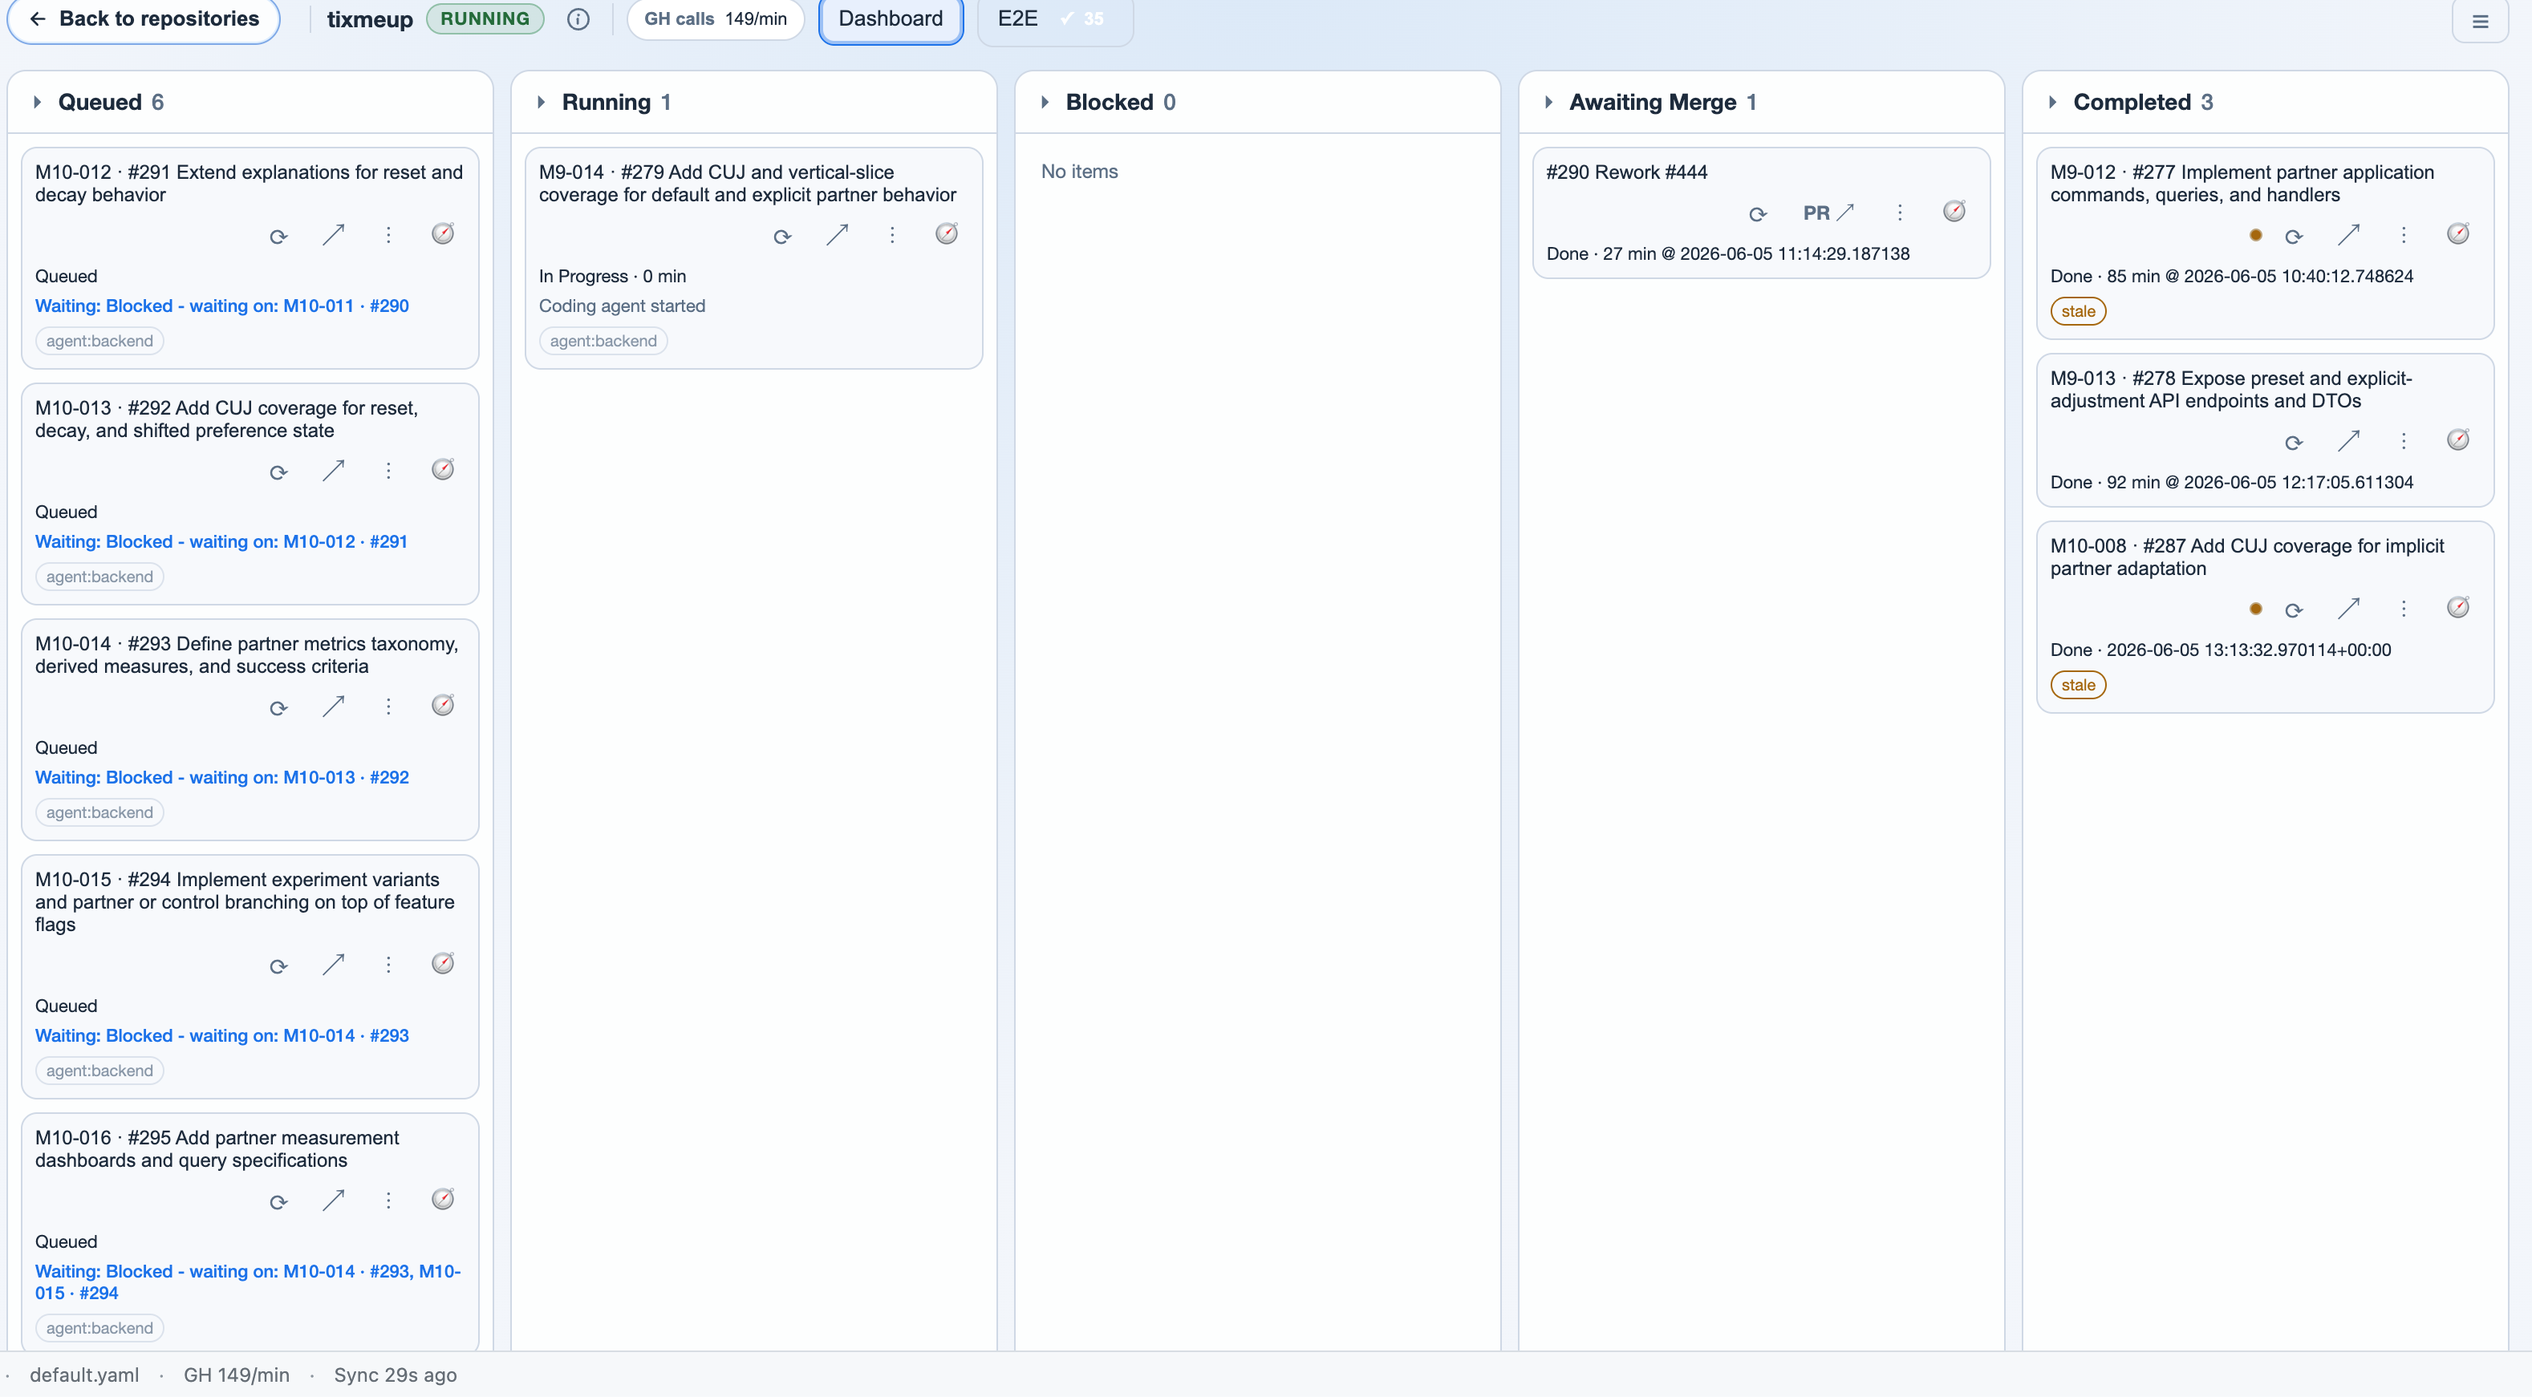
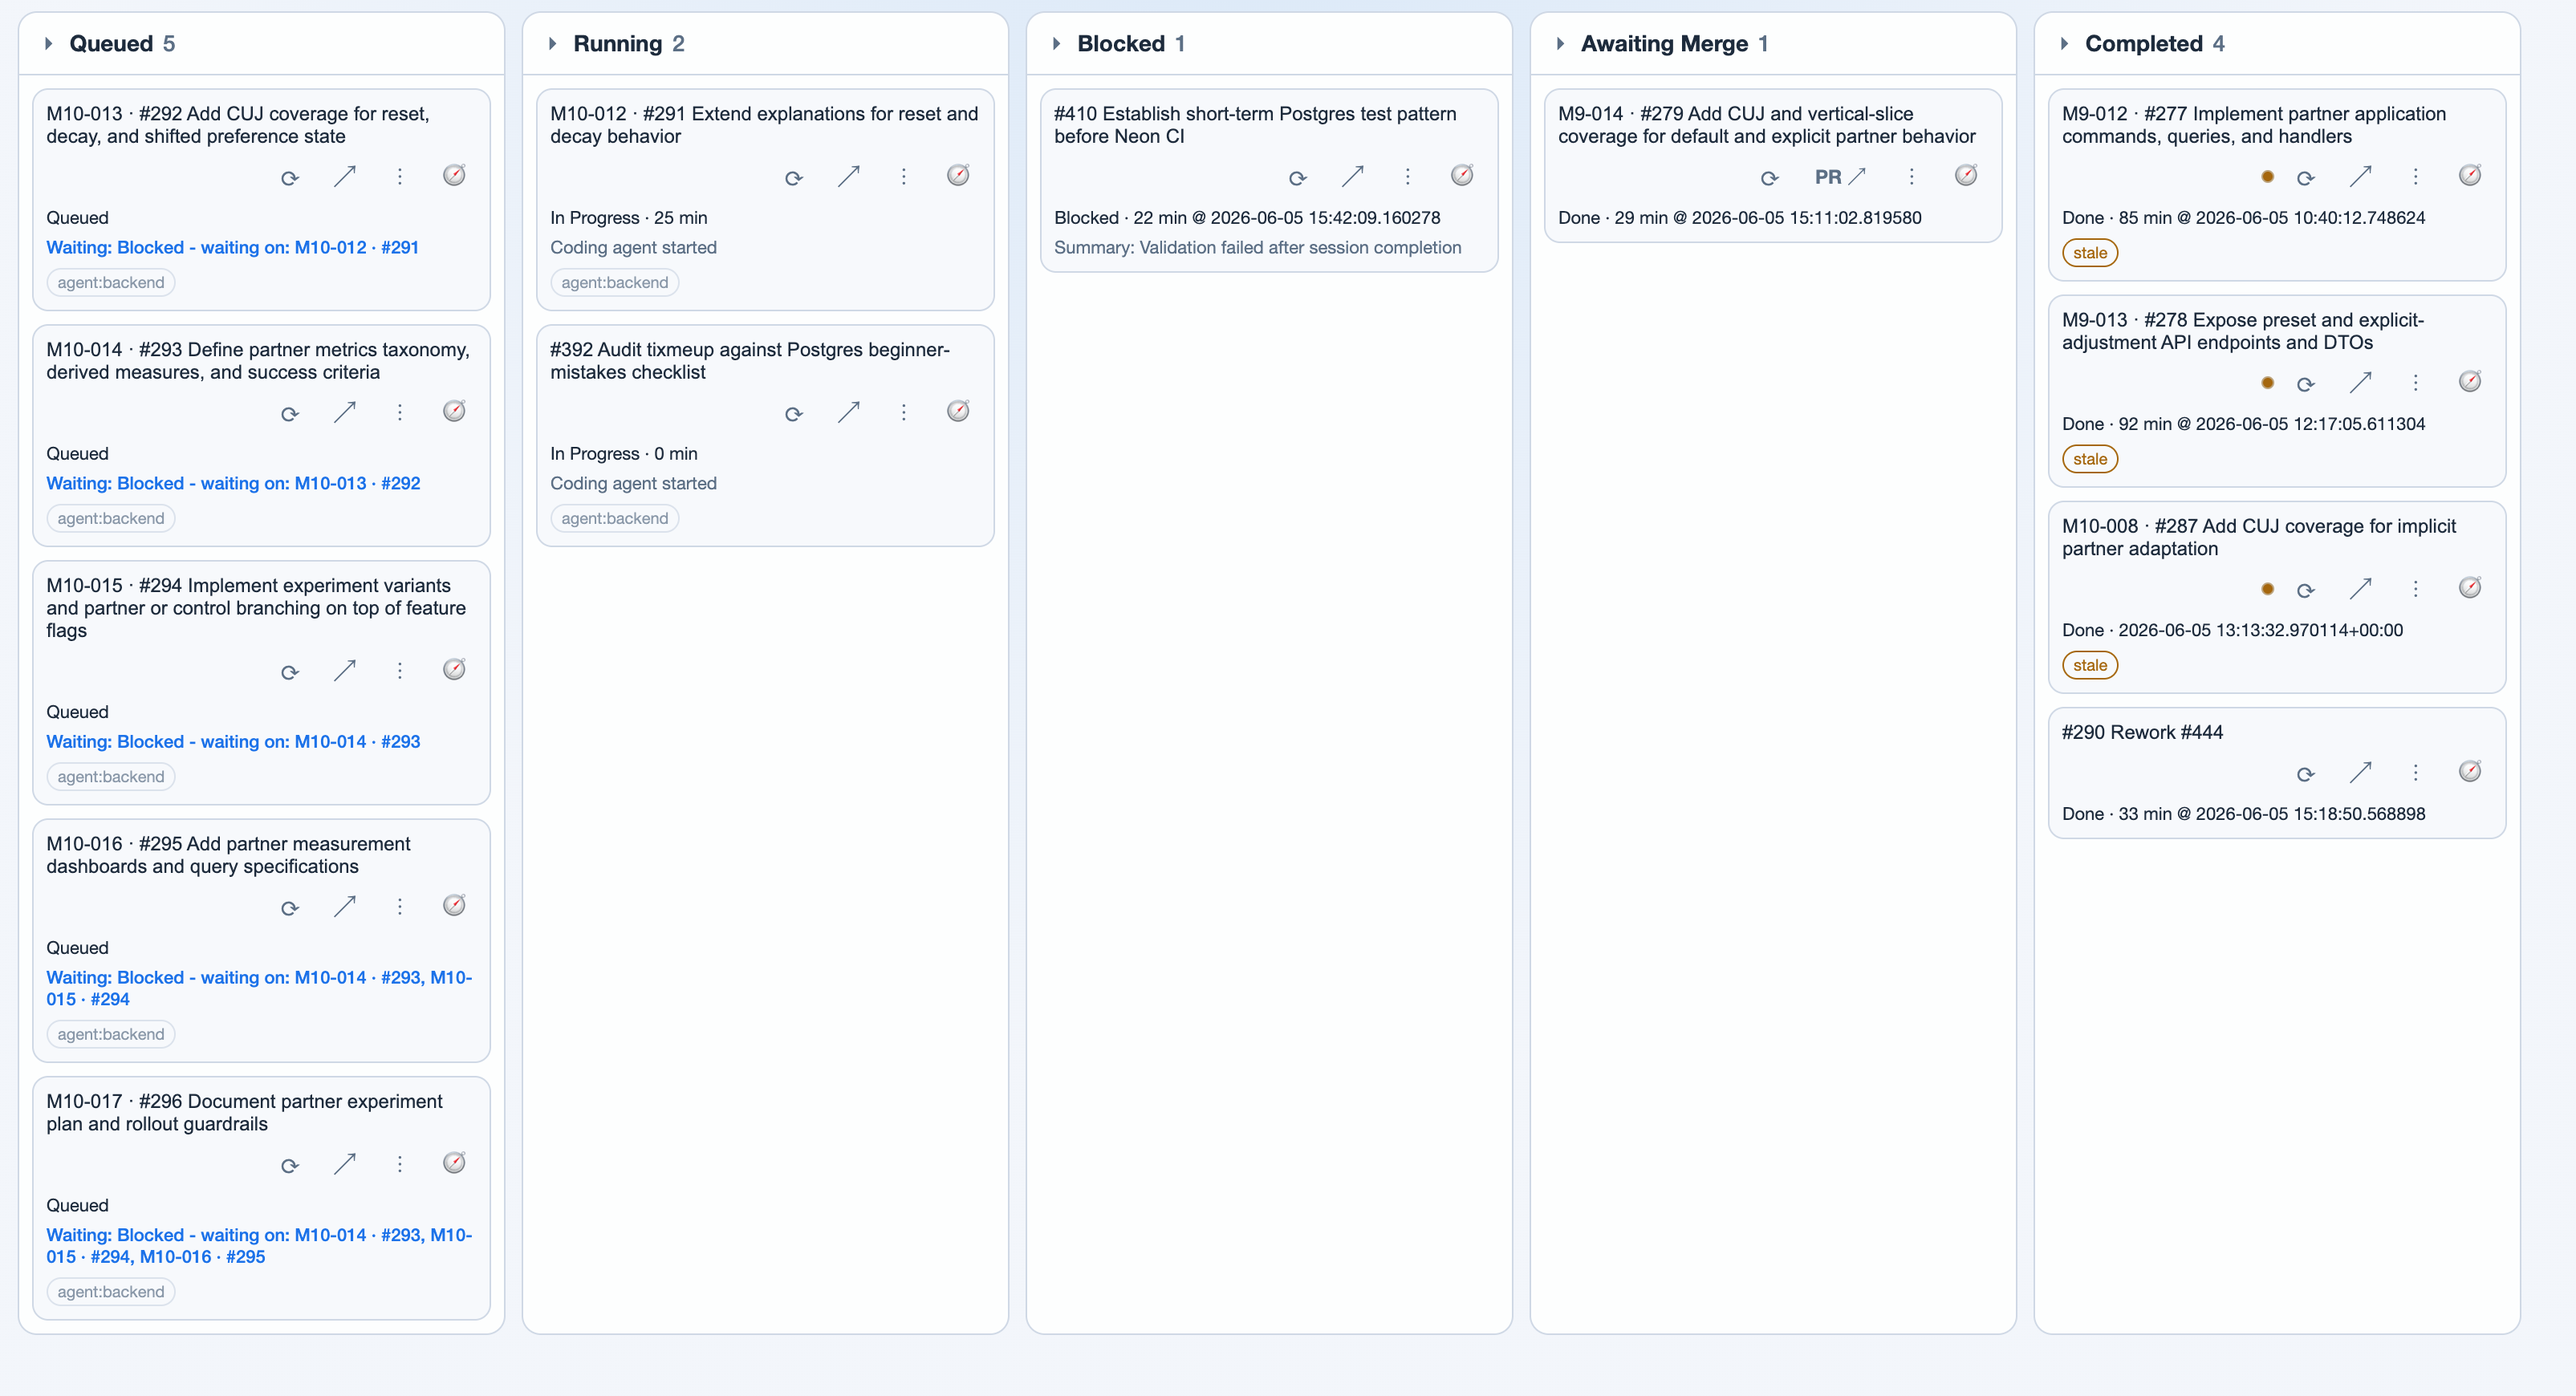
docs: sync launch assets

Changed region(s): [[0.0, 0.0, 0.9937, 0.9931], [0.9626, 0.1552, 0.9937, 0.1862], [0.9626, 0.0, 0.9937, 0.031]]

diff --git a/README.md b/README.md
@@ -38,7 +38,7 @@ Issue-Orchestrator does not know what "good" means for your codebase. Your proje
 
 The dashboard is the concrete control surface: issues flow through Queued, Running, Blocked, Awaiting Merge, and Completed columns. Selecting an issue opens its timeline: review cycles, rework rounds, validation results, session recordings, transcripts, and failure diagnostics.
 
-![Issue-Orchestrator dashboard for a target repo showing Queued, Running, Blocked, Awaiting Merge, and Completed columns with real issue cards.](docs/images/dashboard.png)
+![Issue-Orchestrator dashboard for a target repo showing Queued 5, Running 2, Blocked 1, Awaiting Merge 1, and Completed 4 columns with real issue cards.](docs/images/dashboard.png)
 
 Behind that view, each issue moves through an explicit state machine backed by GitHub labels and isolated worktrees. Before advancing work, the orchestrator re-observes GitHub and the worktree, so crashes, human edits, dirty trees, and provider failures become recoverable states instead of silent corruption.
 
